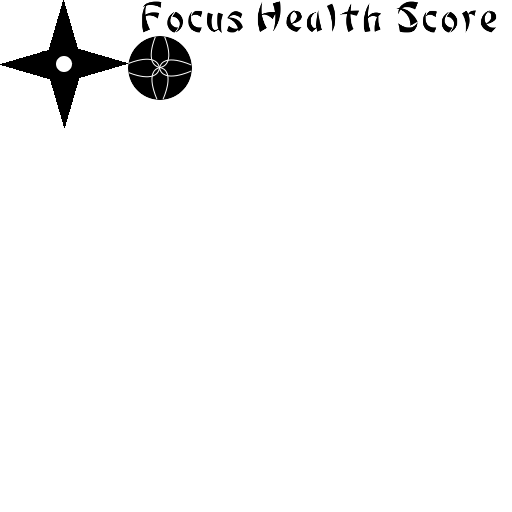
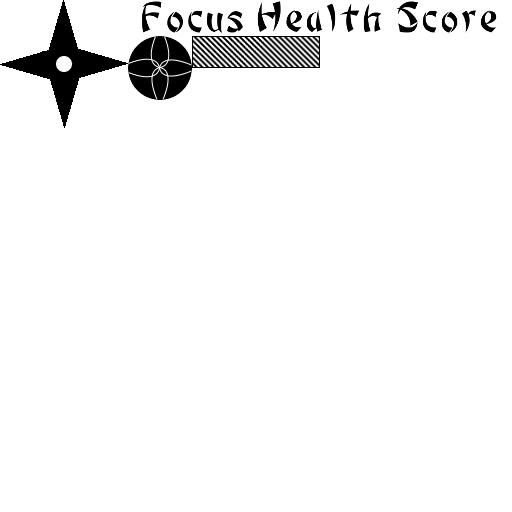
Added some platforms

Changed region(s): [[0.375, 0.0625, 0.625, 0.1562]]

diff --git a/game_view.py b/game_view.py
@@ -15,11 +15,15 @@ class GameView(ui.RootElement):
         #self.music_playing = False
         super(GameView,self).__init__(Point(0,0),globals.screen)
         #skip titles for development of the main game
-        self.mode = modes.Titles(self)
-        #self.mode = modes.LevelOne(self)
+        #self.mode = modes.Titles(self)
+        self.mode = modes.LevelOne(self)
         self.StartMusic()
         self.border = ui.Border(self,Point(0,0),Point(1,1),colour=drawing.constants.colours.black,line_width=2)
         self.player = actors.Player(self.GetAbsolute(Point(0.5,0)))
+        self.platform1 = ui.ImageBox(globals.screen_root, Point(0.8,0.35), Point(0.9,0.375), 'platform.png')
+        self.platform2 = ui.ImageBox(globals.screen_root, Point(0.1,0.35), Point(0.2,0.375), 'platform.png')
+        self.platform3 = ui.ImageBox(globals.screen_root, Point(0.25,0.65), Point(0.35,0.675), 'platform.png')
+        self.platform4 = ui.ImageBox(globals.screen_root, Point(0.65,0.65), Point(0.75,0.675), 'platform.png')
         self.missiles = []
 
     def StartMusic(self):

diff --git a/modes.py b/modes.py
@@ -73,7 +73,7 @@ class Titles(Mode):
         else:
             return TitleStages.COMPLETE
 
-class GameMode(Mode):
+class LevelOne(Mode):
     speed = 200
     direction_amounts = {pygame.K_a  : Point(-0.01*speed, 0.00),
                          pygame.K_d : Point( 0.01*speed, 0.00),
